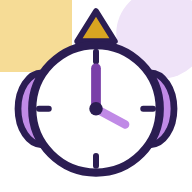
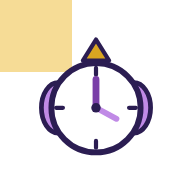
Add files via upload

diff --git a/sw.js b/sw.js
@@ -1,6 +1,6 @@
 // Mode hors ligne : garde une copie de l'appli dans le téléphone.
 // Pour publier une mise à jour, change le numéro de version ci-dessous.
-const CACHE = "heures-nisha-2026-11-13j";
+const CACHE = "heures-nisha-2026-11-13k";
 const FILES = [
   "./",
   "./index.html",
